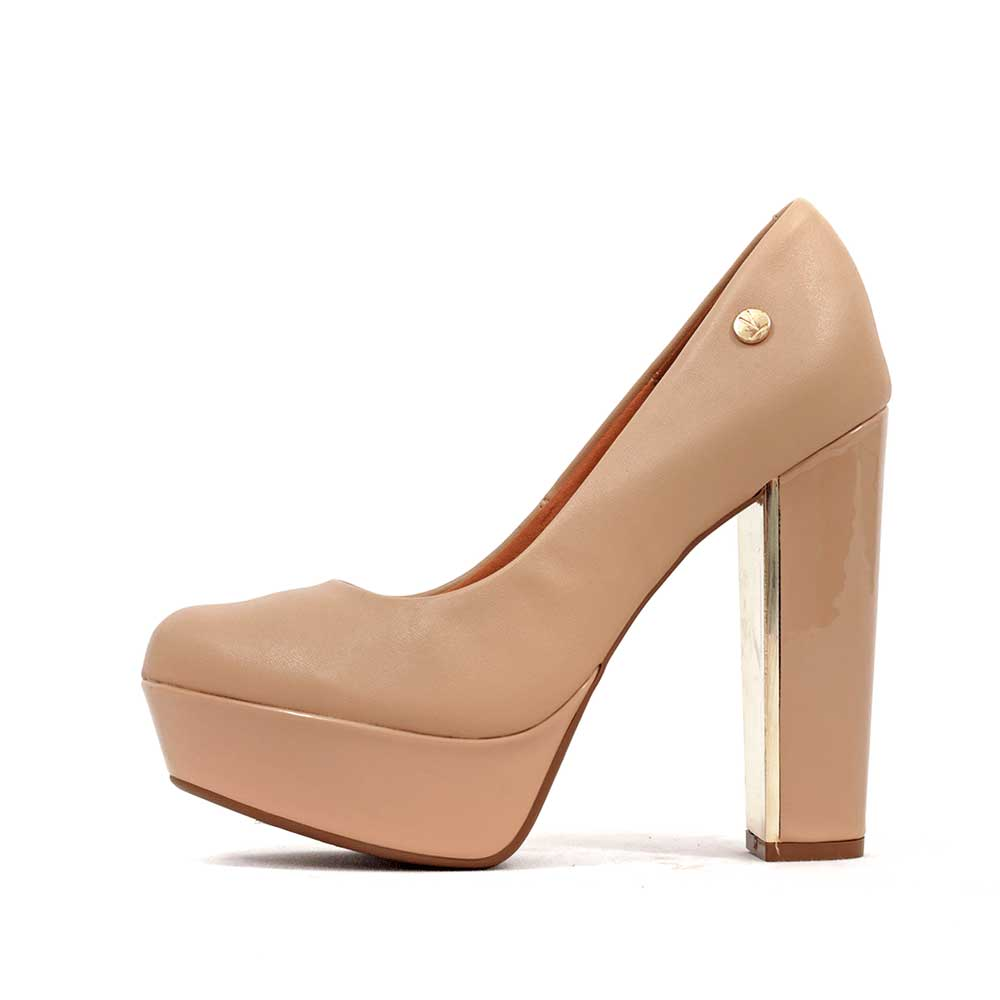
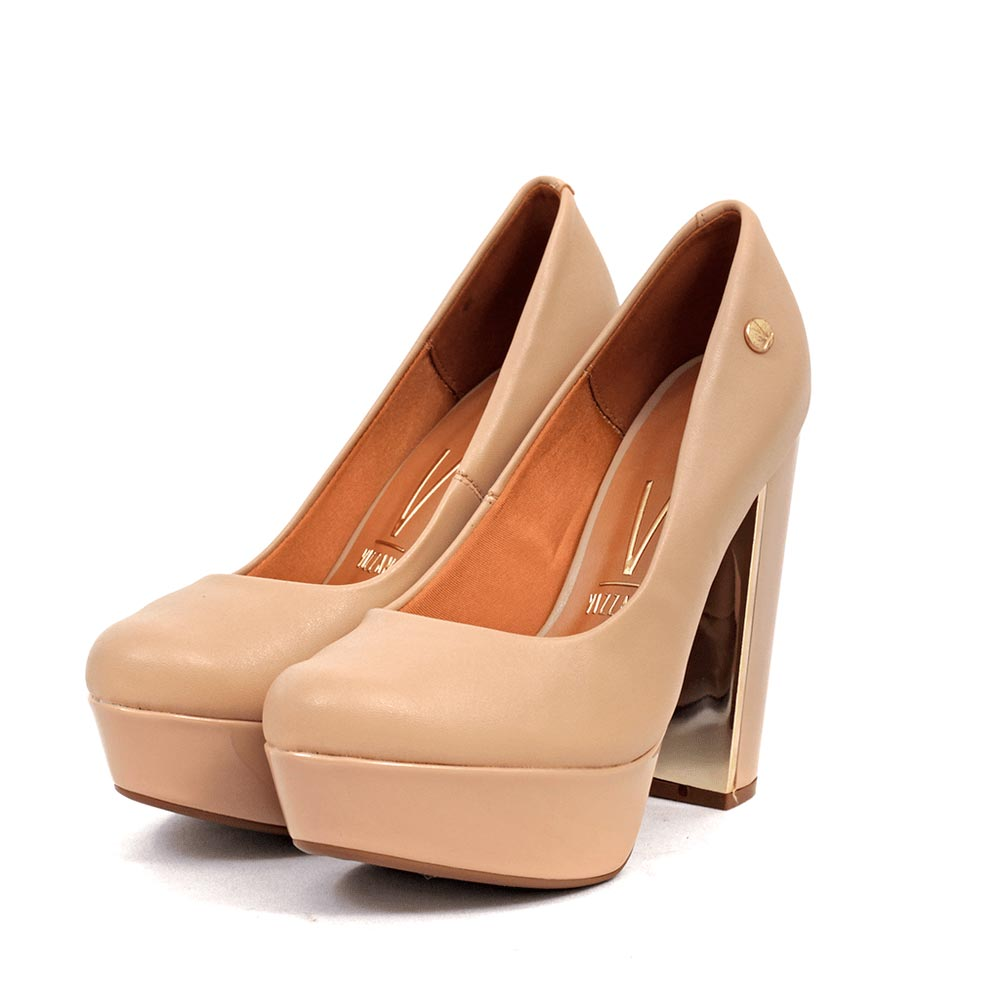
Se agregan cambios y archivos en el proyecto

diff --git a/src/mocks/productos.js b/src/mocks/productos.js
@@ -80,7 +80,7 @@ const productos = [
         
     },
     {
-        nombre:'Top',
+        nombre:'Remera Algodon',
         id:'202',
         descripcion:'Top con bordados y lentejuelas',
         precio:2800,
@@ -163,6 +163,123 @@ const productos = [
         categoria:'ropainterior',
         stock:12,
         imagen:"./ropainterior5.jpg",
+    },
+    {
+        nombre:'Gabardina',
+        id:'400',
+        descripcion:'Pantalon de Gabardina color Azul oscuro',
+        precio:4000,
+        categoria:'pantalones',
+        stock:15,
+        imagen:"./pantalon1-3.jpg",
+    },
+    {
+        nombre:'Jogger Eslastizado',
+        id:'401',
+        descripcion:'Pantalon Jogeer Eslatizado color Bordo',
+        precio:4200,
+        categoria:'pantalones',
+        stock:13,
+        imagen:"./pantalon2-4.jpg",
+    },
+    {
+        nombre:'Creppe Eslastizado',
+        id:'402',
+        descripcion:'Pantalon Eslatizado color Rojo',
+        precio:4300,
+        categoria:'pantalones',
+        stock:9,
+        imagen:"./pantalon3-2.jpg",
+    },
+    {
+        nombre:'Jogger',
+        id:'403',
+        descripcion:'Pantalon Jogger Corte diversos colores',
+        precio:4100,
+        categoria:'pantalones',
+        stock:10,
+        imagen:"./pantalon6.jpg",
+    },
+    {
+        nombre:'Vizzano',
+        id:'500',
+        descripcion:'Zapato Vizzano color Nude',
+        precio:10000,
+        categoria:'zapatos',
+        stock:10,
+        imagen:"./zapatos1-1.jpg",
+    },
+    {
+        nombre:'Vizzano',
+        id:'501',
+        descripcion:'Zandalia Vizzano color Negro',
+        precio:11000,
+        categoria:'zapatos',
+        stock:7,
+        imagen:"./zapatos2-1.jpg",
+    },
+    {
+        nombre:'Clara',
+        id:'502',
+        descripcion:'Zandalia Clara Cuero color Rojo',
+        precio:10500,
+        categoria:'zapatos',
+        stock:11,
+        imagen:"./zapatos2-1.jpg",
+    },
+    {
+        nombre:'Valkiria',
+        id:'503',
+        descripcion:'Zandalia Valkiria Vegan Blanco',
+        precio:9500,
+        categoria:'zapatos',
+        stock:11,
+        imagen:"./zapatos4-1.jpg",
+    },
+    {
+        nombre:'Lilian',
+        id:'504',
+        descripcion:'Zandalia Gamuza Lilian Negro',
+        precio:9800,
+        categoria:'zapatos',
+        stock:11,
+        imagen:"./zapatos5-1.jpg",
+    },
+    {
+        nombre:'Blanca-Rosa',
+        id:'600',
+        descripcion:'Zapatillas Cuero Blanca detalles en Rosa',
+        precio:7200,
+        categoria:'zapatillas',
+        stock:11,
+        imagen:"./zapatillas1.jpg",
+    },
+    {
+        nombre:'Blanca-Negra-Dorada',
+        id:'601',
+        descripcion:'Zapatillas Cuero Blanca detalles en Negro y Dorado',
+        precio:750000,
+        categoria:'zapatillas',
+        stock:9,
+        imagen:"./zapatillas2-2.jpg",
+    },
+    {
+        nombre:'Vizzano',
+        id:'602',
+        descripcion:'Zapatillas Vizano Cuero Blanca detalles en Beige-Celeste',
+        precio:7600,
+        categoria:'zapatillas',
+        stock:7,
+        imagen:"./zapatillas4.jpg",
+    },
+    {
+        nombre:'Vizzano',
+        id:'603',
+        descripcion:'Zapatillas Vizano Cuero color Beige',
+        precio:7600,
+        categoria:'zapatillas',
+        stock:6,
+        imagen:"./zapatillas6.jpg",
     },
 ];
 export const promesa = new Promise ((resolve,reject)=>{

diff --git a/src/components/itemDetail.js b/src/components/itemDetail.js
@@ -3,6 +3,7 @@ import { useNavigate } from "react-router-dom";
 import ItemCounter from "./itemCounter";
 
 
+
 const ItemDetail = ({id,nombre,precio,imagen,descripcion,categoria,stock}) =>{
     const navigacion = useNavigate();
 
@@ -12,8 +13,6 @@ const ItemDetail = ({id,nombre,precio,imagen,descripcion,categoria,stock}) =>{
     const volverAtras = () =>{
         navigacion(-1)
     }
-    
-    
    
     return(
         <div>
